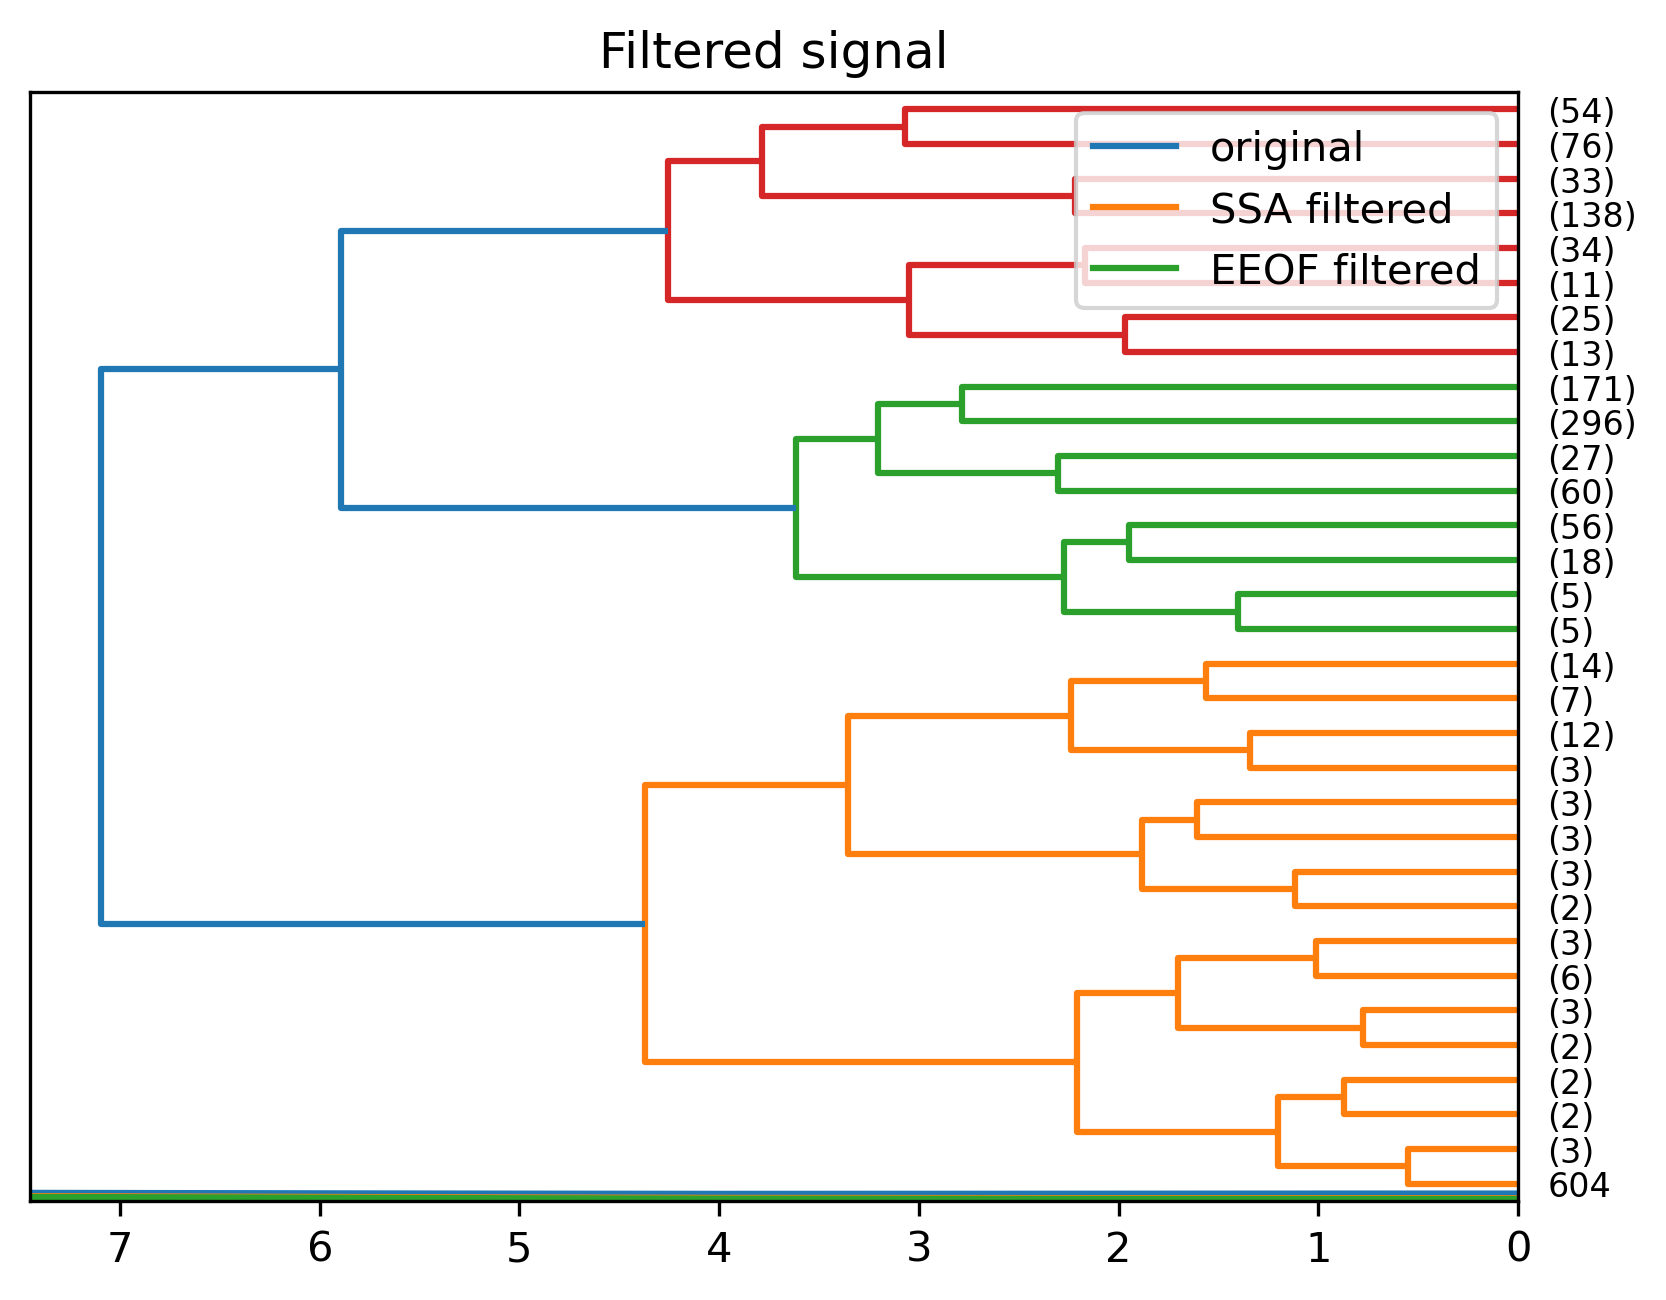
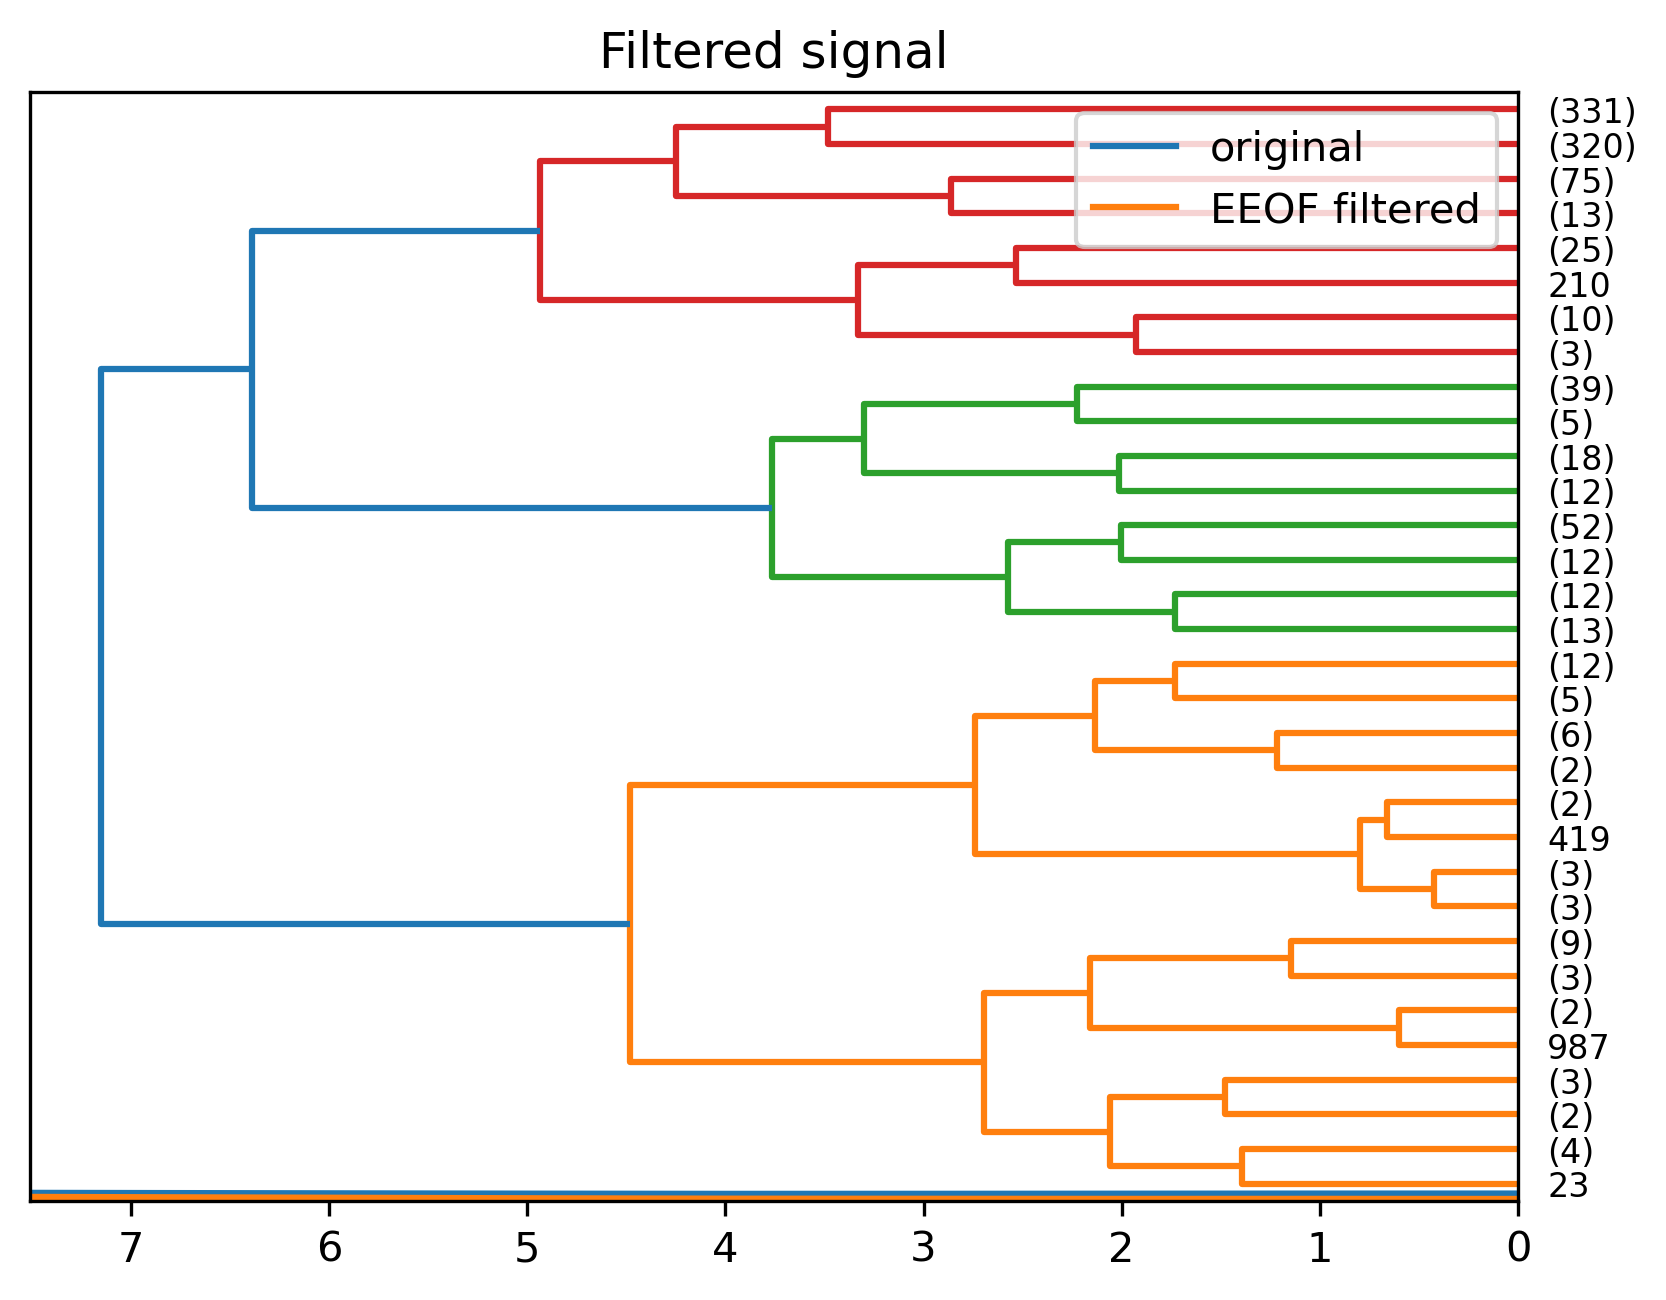
Getting started in README.md added, algins with demo script.

diff --git a/demo_script.py b/demo_script.py
@@ -1,4 +1,3 @@
-import pandas as pd
 from sklearn.cluster import AgglomerativeClustering
 
 import vortexclust as vc
@@ -126,7 +125,7 @@ def main():
         plt.axhline(y=0.05, linestyle='--', color='black')
         plt.axhline(y=-0.05, linestyle='--', color='black')
         plt.title(f"Autocorrelation check for '{c}'")
-        plt.savefig(os.path.join(output_dir, f"seasonality_check_{c}.png"))
+        plt.savefig(output_dir + f"seasonality_check_{c}.png")
         if show_plots: plt.show()
 
     # filter seasonality
@@ -155,6 +154,8 @@ def main():
         demo.loc[:309, "eeof_"+col] = demo.loc[:309, col] - eeof_computed[399:709, 0].T
         demo.loc[310:1000, "eeof_"+col] = demo.loc[310:1000, col] - eeof_computed[399:1090, 309].T
 
+        demo = demo[:1000]
+
         plt.figure()
         plt.plot(demo.loc[:500, col], label='original')
         plt.plot(demo.loc[:500, "ssa_"+col], label="SSA filtered")
@@ -181,7 +182,7 @@ def main():
                 break
 
     model = AgglomerativeClustering(linkage='complete', compute_distances=True, n_clusters=k_opt)
-    model.fit(demo[['scaled_ar', 'scaled_latcent', 'ssa_scaled_u']])
+    model.fit(demo[['scaled_ar', 'scaled_latcent', 'eeof_scaled_u']])
     y = model.labels_.astype(int)
     demo['y'] = y
 
@@ -193,8 +194,8 @@ def main():
     # statistics of classes
     from vortexclust.workflows.demo import plot_hist_per_class
     logging.info(f"Averages per class:\n"
-                 f"{demo[['y', 'scaled_ar', 'scaled_latcent', 'ssa_scaled_u']].groupby(['y']).mean()}")
-    plot_hist_per_class(demo, {'features' : ['scaled_ar', 'scaled_latcent', 'ssa_scaled_u']}, 'y', savefig=output_dir+"demo_hist_per_class.png")
+                 f"{demo[['y', 'scaled_ar', 'scaled_latcent', 'eeof_scaled_u']].groupby(['y']).mean()}")
+    plot_hist_per_class(demo, {'features' : ['scaled_ar', 'scaled_latcent', 'eeof_scaled_u']}, 'y', savefig=output_dir+"demo_hist_per_class")
 
     # compare to form
     from vortexclust.workflows.demo import compare_cluster
@@ -209,7 +210,7 @@ def main():
             compare_col='form',
             pred_value=1,
             gt_value=1,
-            y_names=['y'],
+            y_names=['y']
         )
 
 

diff --git a/vortexclust/workflows/demo.py b/vortexclust/workflows/demo.py
@@ -117,7 +117,7 @@ def plot_timeseries_moments(df, columns, labels,
     plt.tight_layout()
     if savefig is not None:
         check_path(savefig)
-        plt.savefig('../output/scaled_moments.png')
+        plt.savefig(savefig)
     plt.show()
 
 
@@ -204,8 +204,8 @@ def plot_hist_per_class(df, feat_k, y, savefig=None):
             axes[1].axvline(mean_val, color=color, linewidth=1, linestyle='-.',
                             label=f"Mean of {var} = {label}")
         if savefig:
-            check_path(savefig)
-            plt.savefig(savefig)
+            check_path(savefig+f"{feature}")
+            plt.savefig(savefig+f"{feature}")
 
         plt.tight_layout()
         plt.show()

diff --git a/README.md b/README.md
@@ -38,12 +38,160 @@ conda activate vortex
 pip install vortexclust[viz, maps]
 ```
 
-
 ## Getting started
+Load necessary libraries
+```
+import vortexclust as vc
+from vortexclust.io import *
 
+import matplotlib.pyplot as plt
+import numpy as np
 
-[To Do] snippets to get started: import, load demo csv, cluster plot or function
+import warnings
+warnings.filterwarnings("ignore")
 
+```
+
+Set up variables to read data, cleaning white space and convert to correct types.
+```
+# CHANGE paths accordingly to your own demo data
+demo_d = "data/demo_d.csv"
+demo_msw = "data/demo_msw.csv"
+
+df_d = read_data(demo_d)
+df_msw = read_data(demo_msw)
+
+no_white_space(df_d)
+no_white_space(df_msw)
+
+# unknown time format, defining explicit time format is safer
+to_date(df_d, 'string', format="mixed")
+to_date(df_msw, 'string', format="mixed")
+
+demo_all = df_d.merge(df_msw, on='string', how='left', suffixes=("_d", "_msw"))
+
+# encode stings with numeric labels
+from sklearn.preprocessing import LabelEncoder
+le = LabelEncoder()
+demo_all['form'] = le.fit_transform(demo_all['form'])
+print(f"Transformed 'form':"
+             f"{le.inverse_transform([1])} to 1;"
+             f"{le.inverse_transform([0])} to 0")
+
+demo_all = demo_all.sort_values('string').reset_index(drop=True)
+
+# reduce to winter month
+demo = demo_all[demo_all['string'].dt.month.isin([12,1,2,3])]
+demo.reset_index(drop=True, inplace=True)
+```
+
+Scale the data using StandardScaler. The data need to be reduced to a respective time range *before* scaling.
+```
+output_dir = "output/demo/"
+
+from sklearn.preprocessing import StandardScaler
+sc = StandardScaler()
+scaled_col = ['scaled_area', 'scaled_ar', 'scaled_latcent', 'scaled_u']
+col_to_scale = ['area', 'ar', 'latcent', 'u']
+demo[scaled_col] = sc.fit_transform(demo[col_to_scale])
+
+from vortexclust.workflows.demo import plot_timeseries_moments
+try:
+    plot_timeseries_moments(demo, scaled_col, col_to_scale,
+                            title='Vortex Geoemtric Moments',
+                            time_span=500, savefig=output_dir+"moments.png")
+except Exception as e:
+    print("Exception:", e)
+```
+
+Some data contain seasonality which should be filtered before clustering. Below, the autocorrelation function is plotted.
+Additionally, the Durbin-Watson test can be used to detect autocorrelation.
+```
+from statsmodels.graphics.tsaplots import plot_acf
+for c in scaled_col:
+    plot_acf(demo[c], lags=500, marker=None)
+    plt.axhline(y=0.05, linestyle='--', color='black')
+    plt.axhline(y=-0.05, linestyle='--', color='black')
+    plt.title(f"Autocorrelation check for '{c}'")
+    plt.savefig(output_dir + f"seasonality_check_{c}.png")
+    plt.show()
+```
+
+If seasonality is detected, it should be filtered. Seasonality often leads to inferior models 
+that detect different phases instead of different regimes.
+```
+to_filter = ["scaled_u"]
+n_components = 4
+
+from vortexclust.workflows.demo import plot_eeof
+
+for col in to_filter:
+    # compute EEOF
+    epc, eeof, expl_var_ratio, eeof_computed, _ = vc.compute_eeof(demo[col], M=400, n_components=n_components)
+       
+    # plot EPCs and EEOFs
+    plot_eeof(epc, eeof, expl_var_ratio, savefig=output_dir+f"eeof")
+    
+    # plot EEOF reconstructed signals
+    plt.figure()
+    plt.plot(demo[col][:500], label='original')
+    plt.plot(eeof_computed[399:899, 0], label=f'EEOF with {n_components} components')
+    plt.title(f"EEOF for '{col}'")
+    plt.legend()
+    plt.savefig(output_dir+f"eeof_{col}.png")
+    plt.show()
+    
+    demo.loc[:, "eeof_"+col] = np.full_like(demo[col], np.nan)
+    demo.loc[:309, "eeof_"+col] = demo.loc[:309, col] - eeof_computed[399:709, 0].T
+    demo.loc[310:1000, "eeof_"+col] = demo.loc[310:1000, col] - eeof_computed[399:1090, 309].T
+    demo = demo[:1000]
+    
+    # plot filtered signals
+    plt.figure()
+    plt.plot(demo.loc[:500, col], label='original')
+    plt.plot(demo.loc[:500, "eeof_"+col], label='EEOF filtered')
+    plt.title("Filtered signal")
+    plt.legend()
+    plt.savefig(output_dir+f"filtered_{col}.png")
+    plt.show()
+```
+
+The number of clusters is usually determined by external methods such as the gap statistic, silhouette or elbow method.
+Here, it is set to 3 for reasons of simplicity and from prior analysis. Below a hierarchical clustering model is fitted 
+to the data. Special notice should be the linkage, which computes the distance between two clusters. Some linkages tend 
+to produce chained clusters and reinforce the addition to large clusters. To avoid such behaviour *complete* or *ward* 
+is recommended to use.
+```
+k_opt = 3
+from sklearn.cluster import AgglomerativeClustering
+model = AgglomerativeClustering(linkage='complete', compute_distances=True, n_clusters=k_opt)
+model.fit(demo[['scaled_ar', 'scaled_latcent', 'eeof_scaled_u']])
+y = model.labels_.astype(int)
+demo['y'] = y
+# visualisation model
+import vortexclust.visualization as viz
+viz.plot_dendrogram(model, truncate_mode='level', p=4, direction='LR', savefig=output_dir+"demo_dendrogram.png")
+```
+
+Finally, the descriptive statistics of each cluster help to understand it behaviour, formation and characteristics.
+```
+# statistics of classes
+from vortexclust.workflows.demo import plot_hist_per_class
+print(f"Averages per class:\n"
+             f"{demo[['y', 'scaled_ar', 'scaled_latcent', 'eeof_scaled_u']].groupby(['y']).mean()}")
+
+plot_hist_per_class(demo, {'features' : ['scaled_ar', 'scaled_latcent', 'eeof_scaled_u']}, 'y', savefig=output_dir+"demo_hist_per_class")
+
+# compare to form
+from vortexclust.workflows.demo import compare_cluster
+compare_cluster(
+    demo,
+    compare_col='form',
+    pred_value=1,
+    gt_value=1,
+    y_names=['y']
+)
+```
 
 ## Usage <a name="usage"></a>
 [To Do] Short discription of usage, reference to jupyternotebook as user story
